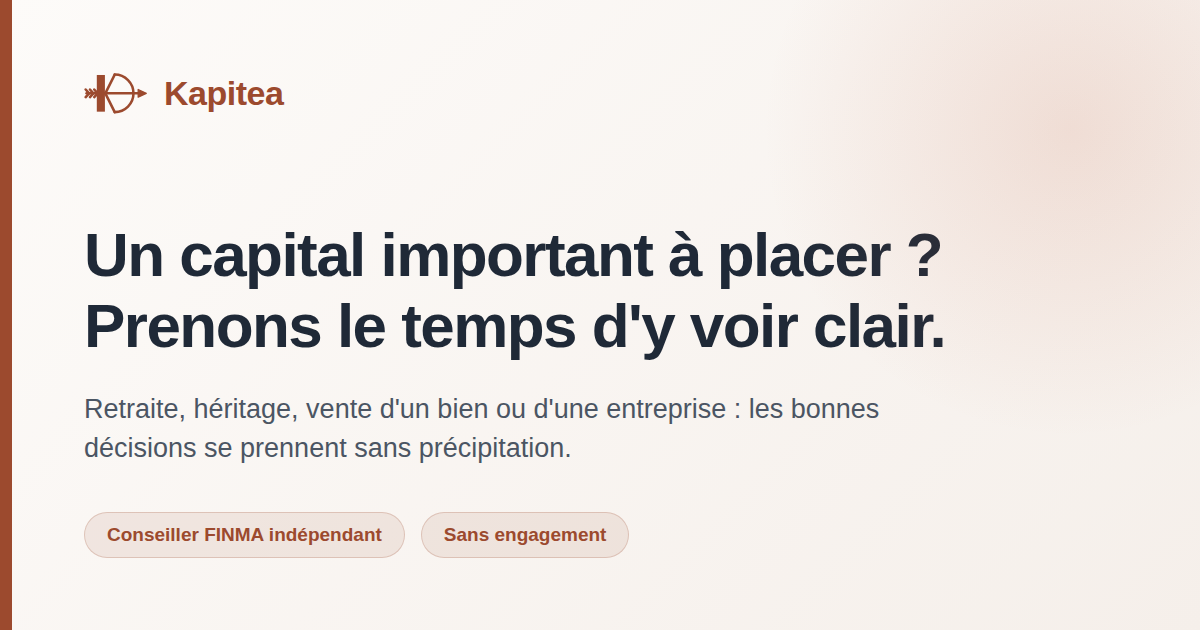
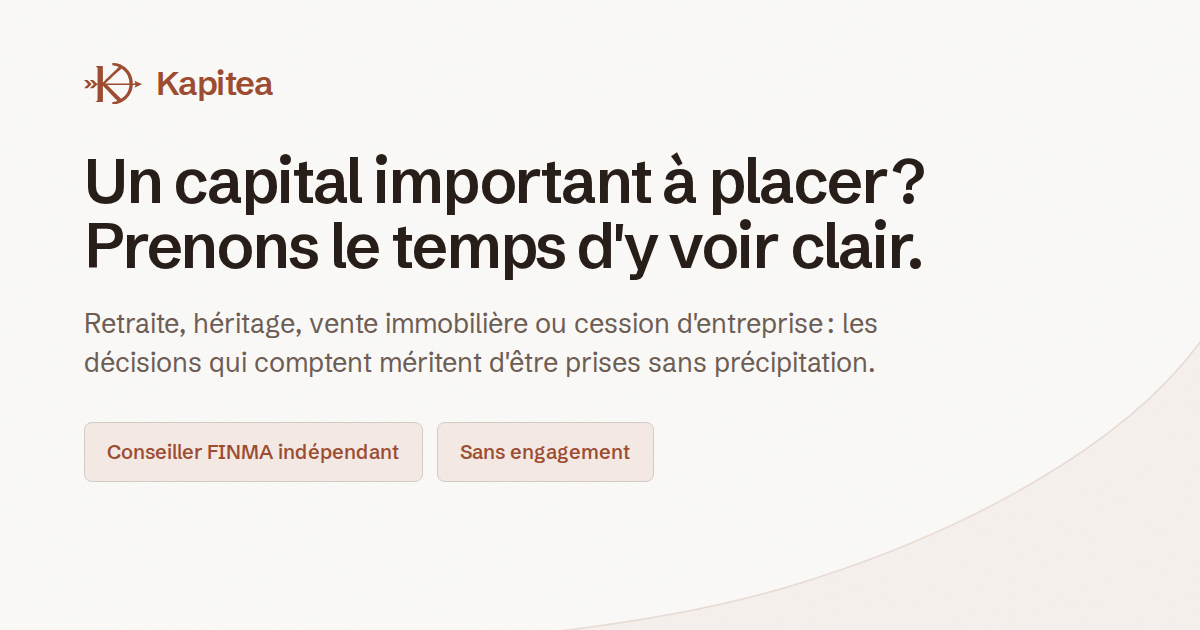
Rebuild the share image and version its template
The mark was updated everywhere it is drawn as SVG, but not where it is
baked into a PNG. assets/og-image.png — the preview five pages hand to
WhatsApp and LinkedIn — still carried the old hand-drawn mark and the
cool greys, so a shared link advertised a different brand than the site
it opened.

It is no longer a hand-made PNG. tools/og-image.html is a 1200x630
template that loads css/base.css and carries the same path as
kapitea-mark.svg, and tools/build-og.js photographs it. That is the point
of versioning the template: the image reads the live tokens, so it cannot
drift from the palette again. Rerun it after any change to the palette,
the mark, or the Open Graph strings.

The ambient gradient in the corner is replaced by the growth curve, the
same motif as the hero — design.md bans gradients as background
decoration, and the curve is what the brand actually has to show. The
grain does not follow: random noise does not compress, and it measured 96
KB on a 288 KB file while being invisible at thumbnail size. The image is
now smaller than the one it replaces, 288 KB against 339.

The copy is unchanged and still matches the og:title and og:description
of index.html word for word.

tools/ is added to a new .vercelignore alongside the working docs: the
template would otherwise be one more public page to index.

Claude-Session: https://claude.ai/code/session_01NnCsaMw55ATUEWvtq8v2RM

diff --git a/tools/og-image.html b/tools/og-image.html
@@ -1,0 +1,130 @@
+<!DOCTYPE html>
+<html lang="fr">
+<head>
+<meta charset="UTF-8">
+<title>Kapitea — image de partage</title>
+<!-- Gabarit de l'image Open Graph, rendu en PNG par tools/build-og.js.
+
+     Il charge css/base.css : la vignette lit les mêmes jetons que le site.
+     C'est tout l'intérêt d'en faire un gabarit versionné plutôt qu'un PNG
+     produit à la main — la dernière version avait gardé les gris bleutés
+     et l'ancien mark six mois après que les deux aient changé. -->
+<link rel="stylesheet" href="../css/base.css">
+<style>
+  html, body { margin: 0; }
+
+  .card {
+    position: relative;
+    width: 1200px;
+    height: 630px;
+    overflow: hidden;
+    background-color: var(--paper);
+    display: flex;
+    flex-direction: column;
+    justify-content: center;
+    padding: 0 84px;
+    box-sizing: border-box;
+  }
+
+  /* Pas de grain ici, contrairement au site. Du bruit aléatoire ne se
+     compresse pas : mesuré, il ajoutait 96 Ko à un PNG qui en fait 288,
+     et à la taille d'une vignette de partage il est invisible. */
+
+  /* Le même motif que le hero, à la place du dégradé d'ambiance qu'il y
+     avait ici : c'est le seul geste graphique de la marque.
+
+     Le débord est à gauche, pas à droite : la montée occupe le dernier
+     tiers du tracé, et avec un débord à droite elle sortait du cadre —
+     il ne restait qu'un trait dans le coin. */
+  .curve {
+    position: absolute;
+    left: -8%;
+    bottom: -5%;
+    width: 108%;
+    color: var(--brique);
+    opacity: 0.16;
+  }
+
+  .curve-area { fill: var(--brique); stroke: none; opacity: 0.28; }
+
+  .lockup {
+    position: absolute;
+    top: 56px;
+    left: 84px;
+    display: flex;
+    align-items: center;
+    gap: 14px;
+    color: var(--brique);
+  }
+
+  .lockup svg { width: 58px; height: auto; }
+
+  .lockup span {
+    font-family: var(--font-family);
+    font-size: 34px;
+    font-weight: 600;
+    letter-spacing: -0.03em;
+  }
+
+  .content { position: relative; z-index: 1; }
+
+  h1 {
+    font-family: var(--font-family);
+    font-size: 62px;
+    font-weight: 600;
+    line-height: 1.05;
+    letter-spacing: var(--display-track);
+    color: var(--ink);
+    margin: 0 0 26px;
+    max-width: 15em;
+  }
+
+  p {
+    font-family: var(--font-family);
+    font-size: 27px;
+    line-height: 1.45;
+    color: var(--ink-2);
+    margin: 0 0 40px;
+    max-width: 30em;
+  }
+
+  .badges { display: flex; gap: 14px; }
+
+  .badge {
+    font-family: var(--font-family);
+    font-size: 20px;
+    font-weight: 550;
+    color: var(--brique);
+    background-color: var(--brique-wash);
+    border: 1px solid var(--line-2);
+    border-radius: var(--r-input);
+    padding: 13px 22px;
+  }
+</style>
+</head>
+<body>
+  <div class="card">
+    <svg class="curve" viewBox="0 0 1200 300" fill="none" aria-hidden="true">
+      <path class="curve-area" d="M0 296C380 295 640 284 820 230C980 182 1130 100 1200 4L1200 300L0 300Z"/>
+      <path d="M0 296C380 295 640 284 820 230C980 182 1130 100 1200 4"
+            stroke="currentColor" stroke-width="1.5" stroke-linecap="round"/>
+    </svg>
+
+    <div class="lockup">
+      <svg viewBox="0 0 727 517" fill="currentColor" fill-rule="evenodd" aria-hidden="true">
+        <path d="M355.4 1.3c-0.2 0.7 -0.3 7.1 -0.2 14.2l0.3 12.9 3.5 0.7c1.9 0.4 7.8 1.2 13 1.9 5.2 0.6 14.2 2.3 20 3.7 5.8 1.4 14.6 4 19.5 5.8 14.6 5.2 24.6 9.7 24.3 10.7 -0.2 0.6 -11.5 11.7 -25 24.7 -34 32.7 -123.6 119 -150.8 145.5l-22.5 21.9 -0.5 -102.4 -0.5 -102.4 -39 -0.3c-21.4 -0.2 -42.4 0 -46.5 0.4l-7.4 0.6 2.9 2.2c1.7 1.1 6.8 5.2 11.5 8.9 4.7 3.7 9.3 8.2 10.3 10l1.7 3.2 0 97.2 0 97.3 -5.3 0 -5.3 0 -22.3 -23 -22.3 -23 -21.4 0c-11.8 0 -21.4 0.2 -21.4 0.4 0 0.2 3.1 3.5 6.8 7.2 3.8 3.8 15.6 15.8 26.2 26.6l19.2 19.7 -26.3 26 -26.4 26 22 0.1 21.9 0 24.6 -24.4c13.5 -13.4 25.5 -24.9 26.8 -25.5l2.2 -1.2 0.5 1.3c0.3 0.7 0.4 46 0.3 100.7l-0.3 99.4 -5.7 5.2c-3.2 2.8 -8.9 7.4 -12.8 10.1 -3.8 2.7 -7 5.2 -7 5.6 0 0.5 20.9 0.8 46.5 0.8l46.5 0 0 -101.8 0 -101.9 20.3 20.6c30.9 31.4 54.8 56 93.1 96.1 19.2 20.1 42.6 44.3 51.9 53.8 9.3 9.5 16.8 17.5 16.6 17.7 -0.3 0.2 -5.4 2 -11.4 4 -11.2 3.6 -30.5 7.9 -40.5 9 -3 0.3 -7 0.8 -8.8 1.1l-3.3 0.5 0.3 13.7 0.3 13.7 5 0.3c2.8 0.2 11.3 -0.1 18.9 -0.8 7.7 -0.6 17.3 -1.8 21.5 -2.5 4.2 -0.7 12.1 -2.5 17.6 -3.9 5.5 -1.4 13.8 -3.8 18.5 -5.4 4.7 -1.7 12.1 -4.4 16.5 -6.2 4.4 -1.7 13.2 -5.8 19.5 -9 6.3 -3.3 16.5 -9.1 22.5 -13.1 6.1 -3.9 15.1 -10.4 20.2 -14.5 5.1 -4.1 13.6 -11.6 18.9 -16.7 5.4 -5 14 -14.2 19.2 -20.2 5.2 -6.1 13 -16.4 17.4 -23 4.4 -6.6 11.3 -18.8 15.3 -27 4 -8.3 8.7 -18.8 10.4 -23.5 1.6 -4.7 4.4 -13.5 6 -19.5 1.7 -6.1 4 -16.4 5.1 -23 1.2 -6.6 2.4 -16.6 2.7 -22.3l0.6 -10.2 4.1 -0.2c2.3 -0.1 10.1 -0.2 17.3 -0.2 7.3 -0.1 13.3 0.2 13.3 0.6 0 0.3 -2.4 7.6 -5.4 16.2 -2.9 8.6 -5.2 15.6 -5 15.6 0.1 0 14.1 -6.4 31.1 -14.3 16.9 -7.9 37.4 -17.2 45.5 -20.8 8.1 -3.5 14.7 -6.6 14.8 -6.9 0 -0.3 -10.2 -5.2 -22.8 -11 -12.5 -5.7 -32.7 -15 -44.9 -20.7 -12.1 -5.7 -22.6 -10.3 -23.3 -10.3 -0.6 0 -0.8 0.5 -0.5 1 0.8 1.2 9.5 29.1 9.5 30.2 0 0.5 -7.4 0.8 -16.4 0.8l-16.3 0 -0.7 -5.3c-0.3 -2.8 -0.6 -8.4 -0.6 -12.2 0 -3.9 -0.9 -12.9 -1.9 -20 -1.1 -7.2 -3.4 -18.8 -5.1 -25.9 -1.8 -7.1 -4.9 -17.7 -7 -23.5 -2.1 -5.8 -5.5 -14.4 -7.5 -19.1 -2 -4.7 -5.7 -12.3 -8.2 -17 -2.6 -4.7 -7.1 -12.3 -10.1 -17 -3 -4.7 -8.9 -13 -13.1 -18.5 -4.2 -5.5 -13.7 -16.1 -21.1 -23.5 -7.4 -7.5 -18.9 -17.6 -25.5 -22.6 -6.6 -4.9 -16.1 -11.5 -21.1 -14.6 -5 -3.1 -13.7 -7.9 -19.3 -10.7 -5.5 -2.8 -14.6 -6.9 -20.1 -9.1 -5.5 -2.2 -14.6 -5.3 -20.2 -7 -5.7 -1.7 -16.1 -4.1 -23.3 -5.5 -13.5 -2.4 -33.9 -4.5 -45.1 -4.5l-6.5 0 -0.5 1.3zm126.5 75.9c5.3 4 14.8 12.4 21.1 18.8 6.4 6.3 14.5 15.3 18.2 20 3.6 4.7 9 12.3 12 17 3 4.7 7 11.4 9 15 2 3.6 5.6 11.3 8.1 17.1 2.5 5.8 6.1 15.6 8.1 21.8 1.9 6.2 4.6 16.7 6 23.4 2.6 12.9 4.6 30.1 4.6 39.9l0 5.8 -151 0c-83 0 -151 -0.2 -151 -0.4 0 -0.4 15.3 -14.4 73 -67 40.9 -37.4 69 -62.7 99.5 -89.9 17.6 -15.7 32.2 -28.6 32.4 -28.6 0.3 -0.1 4.8 3.2 10 7.1zm87.1 200.8c0 1.4 -0.7 8 -1.5 14.7 -0.8 6.7 -3 18.2 -4.9 25.6 -1.9 7.5 -5.7 19.3 -8.6 26.4 -2.8 7 -8.1 18 -11.7 24.3 -3.6 6.3 -9.9 16.2 -14.1 22l-7.6 10.5 -15 15.1c-8.7 8.7 -19.8 18.6 -26.1 23.3 -6 4.5 -11.6 8 -12.2 7.9 -1.3 -0.3 -19.5 -17.9 -120.6 -116.8l-55.7 -54.5 84.7 -0.5c46.7 -0.3 109.2 -0.5 139.1 -0.6l54.2 0 0 2.6z M0 212.8c0 0.4 7.5 8.1 16.6 17.2 9.1 9.1 20.6 20.9 25.6 26.3l9.1 9.8 -25.9 26 -25.9 25.9 22 0 22 0 26 -26 26 -26 -5.5 -5.7c-3 -3.2 -14.9 -15.4 -26.5 -27.1l-21 -21.2 -21.2 0c-11.7 0 -21.3 0.3 -21.3 0.8z"/>
+      </svg>
+      <span>Kapitea</span>
+    </div>
+
+    <div class="content">
+      <h1>Un capital important à placer&#8239;? Prenons le temps d'y voir clair.</h1>
+      <p>Retraite, héritage, vente immobilière ou cession d'entreprise&#8239;: les décisions qui comptent méritent d'être prises sans précipitation.</p>
+      <div class="badges">
+        <span class="badge">Conseiller FINMA indépendant</span>
+        <span class="badge">Sans engagement</span>
+      </div>
+    </div>
+  </div>
+</body>
+</html>

diff --git a/tools/build-og.js b/tools/build-og.js
@@ -1,0 +1,68 @@
+/* Rend tools/og-image.html en assets/og-image.png.
+ *
+ * L'image de partage était un PNG produit à la main, donc figé : elle a
+ * gardé les gris bleutés et l'ancien mark bien après que les deux aient
+ * changé dans le site. Le gabarit charge maintenant css/base.css, et ce
+ * script le photographie. À relancer après toute modification de la
+ * palette, du mark ou des métadonnées Open Graph.
+ *
+ *   node tools/build-og.js
+ *
+ * Nécessite Playwright et un Chromium. Le serveur statique est lancé ici :
+ * le gabarit charge des feuilles de style et des polices en relatif, que
+ * file:// servirait de façon inégale selon la plateforme.
+ */
+
+const { chromium } = require('playwright');
+const http = require('http');
+const fs = require('fs');
+const path = require('path');
+
+const ROOT = path.join(__dirname, '..');
+const OUT = path.join(ROOT, 'assets', 'og-image.png');
+const PORT = 8791;
+
+const TYPES = {
+  '.html': 'text/html; charset=utf-8',
+  '.css': 'text/css; charset=utf-8',
+  '.js': 'text/javascript; charset=utf-8',
+  '.svg': 'image/svg+xml',
+  '.woff2': 'font/woff2',
+  '.png': 'image/png',
+};
+
+function serve() {
+  const server = http.createServer((req, res) => {
+    // Le gabarit n'appelle que des chemins relatifs connus ; on refuse
+    // quand même tout ce qui remonte au-dessus de la racine du dépôt.
+    const rel = decodeURIComponent(req.url.split('?')[0]).replace(/^\/+/, '');
+    const file = path.join(ROOT, rel);
+    if (!file.startsWith(ROOT) || !fs.existsSync(file) || fs.statSync(file).isDirectory()) {
+      res.writeHead(404).end();
+      return;
+    }
+    res.writeHead(200, { 'Content-Type': TYPES[path.extname(file)] || 'application/octet-stream' });
+    fs.createReadStream(file).pipe(res);
+  });
+  return new Promise((resolve) => server.listen(PORT, () => resolve(server)));
+}
+
+(async () => {
+  const server = await serve();
+  const browser = await chromium.launch();
+  const page = await browser.newPage({ viewport: { width: 1200, height: 630 } });
+
+  await page.goto(`http://localhost:${PORT}/tools/og-image.html`);
+  // La fonte est en font-display:swap : sans cette attente, le rendu peut
+  // partir sur le repli métrique.
+  await page.evaluate(() => document.fonts.ready);
+  await page.waitForTimeout(200);
+
+  await page.locator('.card').screenshot({ path: OUT });
+
+  await browser.close();
+  server.close();
+
+  const { size } = fs.statSync(OUT);
+  console.log(`assets/og-image.png — ${(size / 1024).toFixed(0)} Ko`);
+})();
